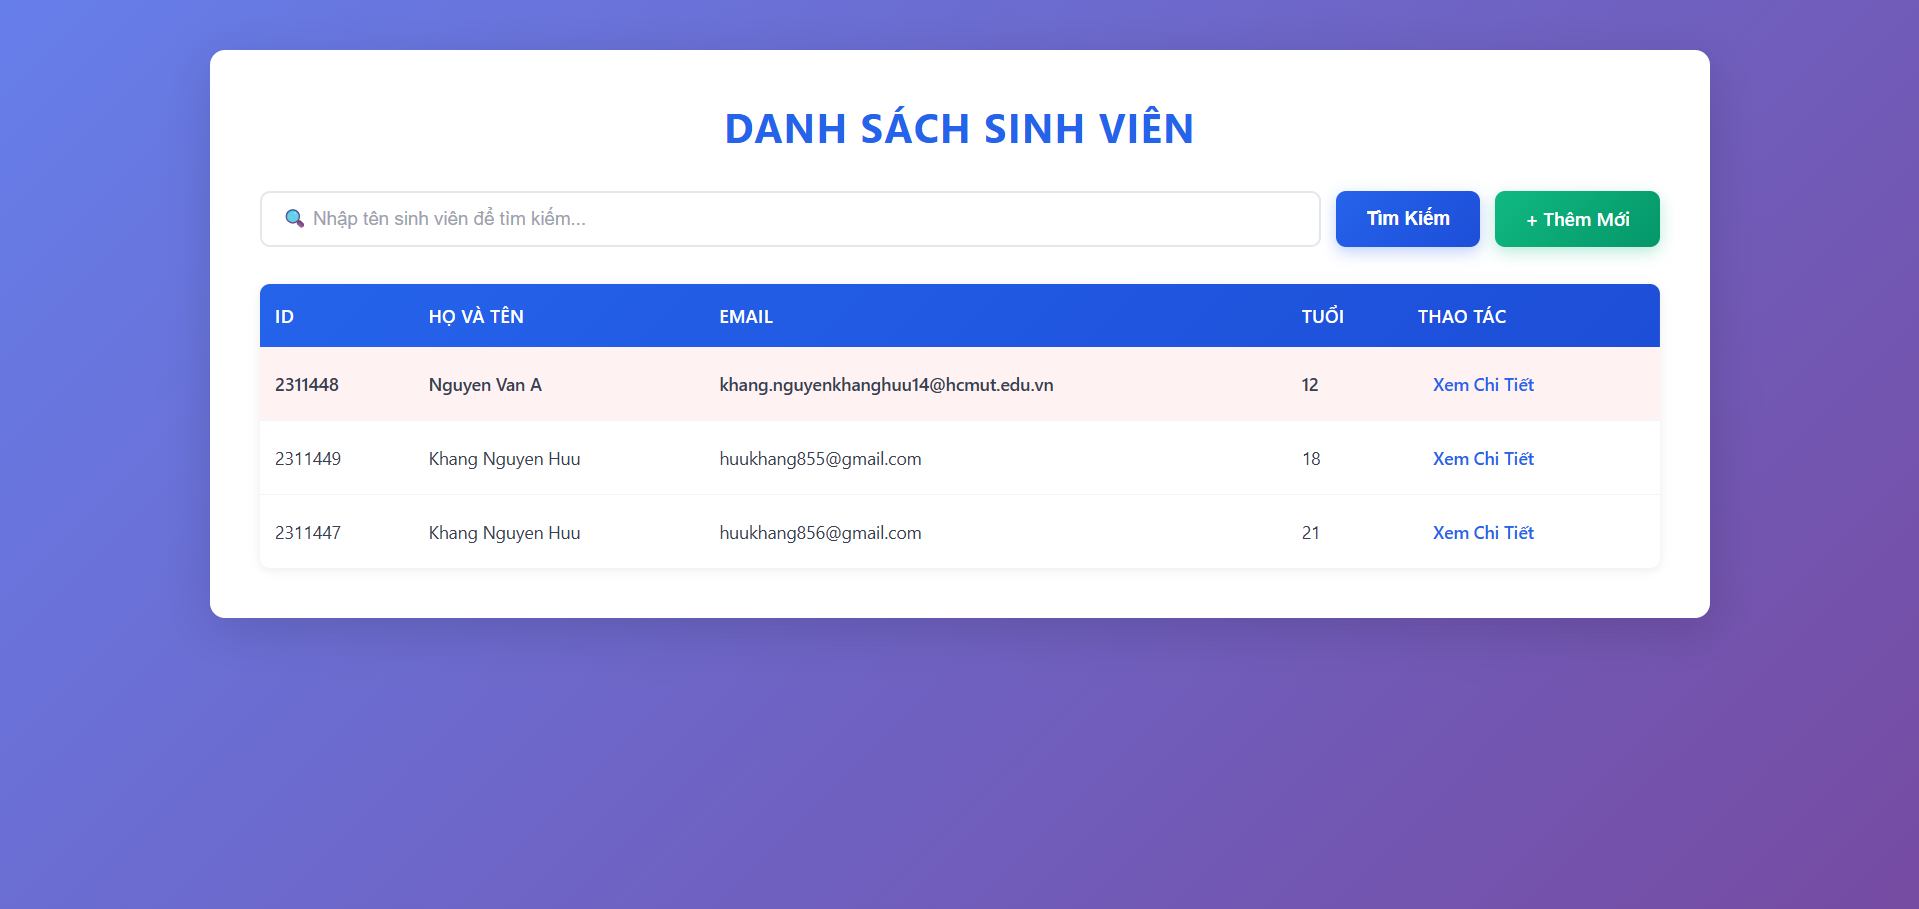
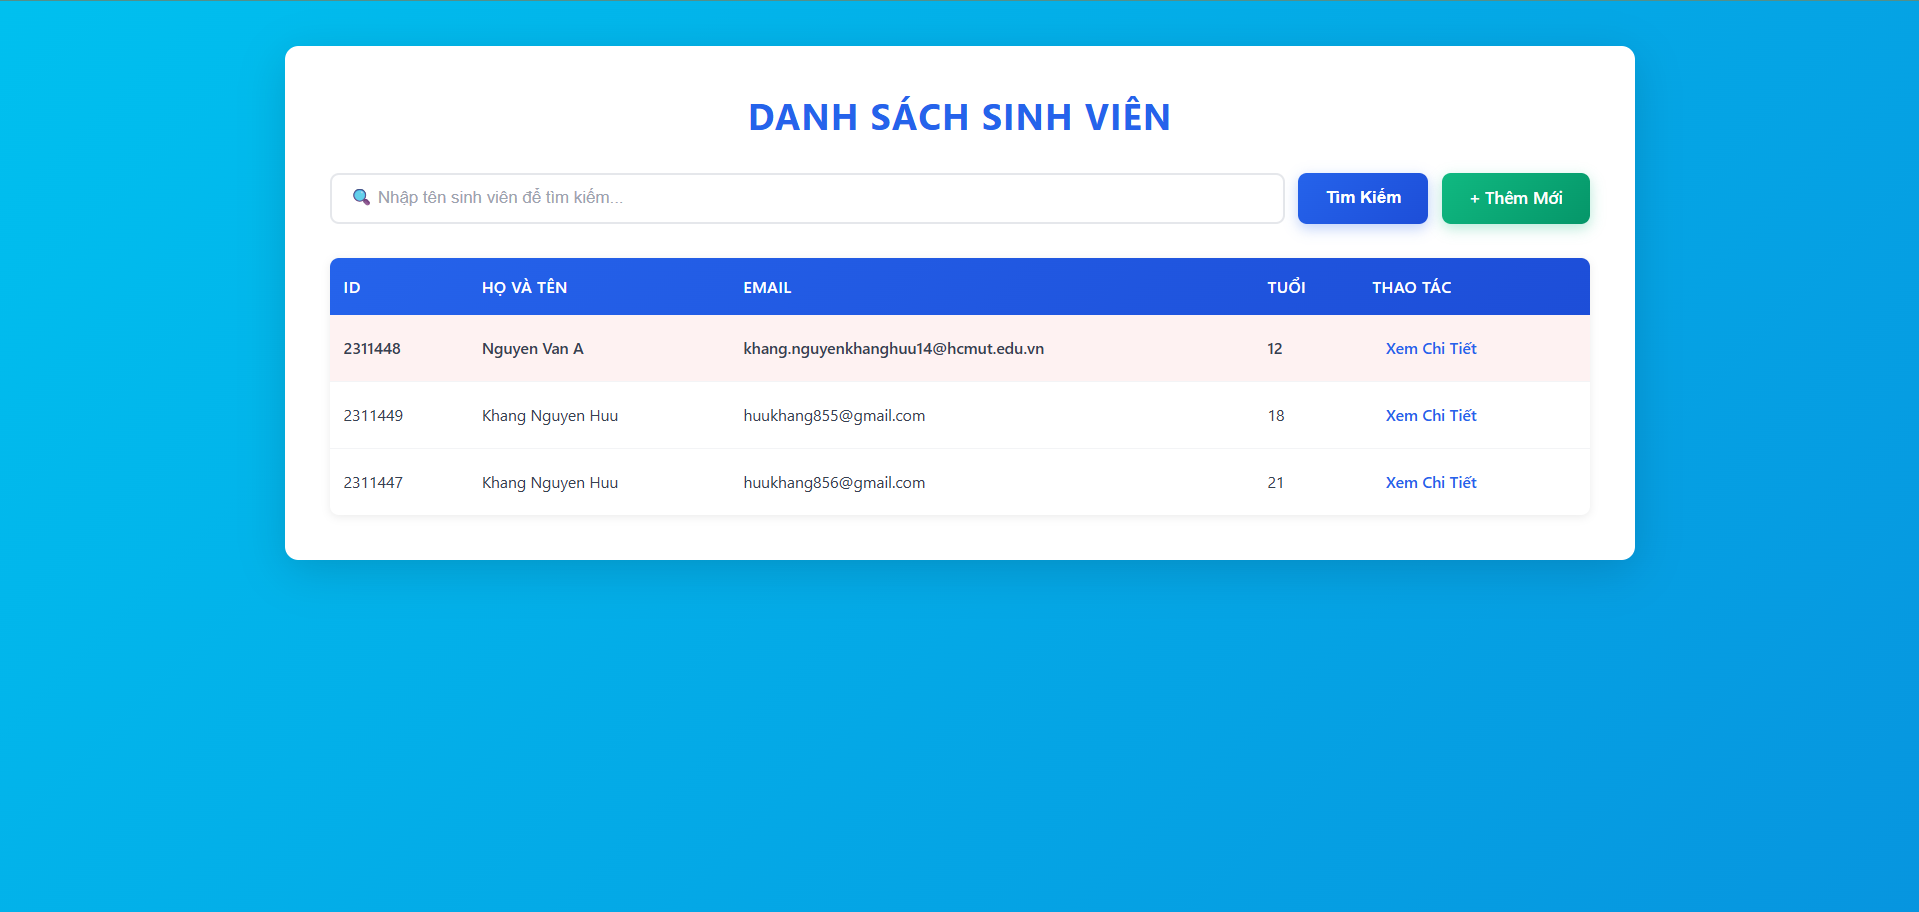
fix readme

diff --git a/src/main/resources/templates/student-detail.html b/src/main/resources/templates/student-detail.html
@@ -12,7 +12,7 @@
 
         body {
             font-family: 'Segoe UI', Tahoma, Geneva, Verdana, sans-serif;
-            background: linear-gradient(135deg, #667eea 0%, #764ba2 100%);
+            background: linear-gradient(135deg, #00C0EF 0%, #0795DF 100%);
             min-height: 100vh;
             padding: 40px 20px;
         }

diff --git a/src/main/resources/templates/student-form.html b/src/main/resources/templates/student-form.html
@@ -12,7 +12,7 @@
 
         body {
             font-family: 'Segoe UI', Tahoma, Geneva, Verdana, sans-serif;
-            background: linear-gradient(135deg, #667eea 0%, #764ba2 100%);
+            background: linear-gradient(135deg, #00C0EF 0%, #0795DF 100%);
             min-height: 100vh;
             padding: 40px 20px;
         }

diff --git a/src/main/resources/templates/students.html b/src/main/resources/templates/students.html
@@ -12,7 +12,7 @@
 
         body {
             font-family: 'Segoe UI', Tahoma, Geneva, Verdana, sans-serif;
-            background: linear-gradient(135deg, #667eea 0%, #764ba2 100%);
+            background: linear-gradient(135deg, #00C0EF 0%, #0795DF 100%);
             min-height: 100vh;
             padding: 40px 20px;
         }
